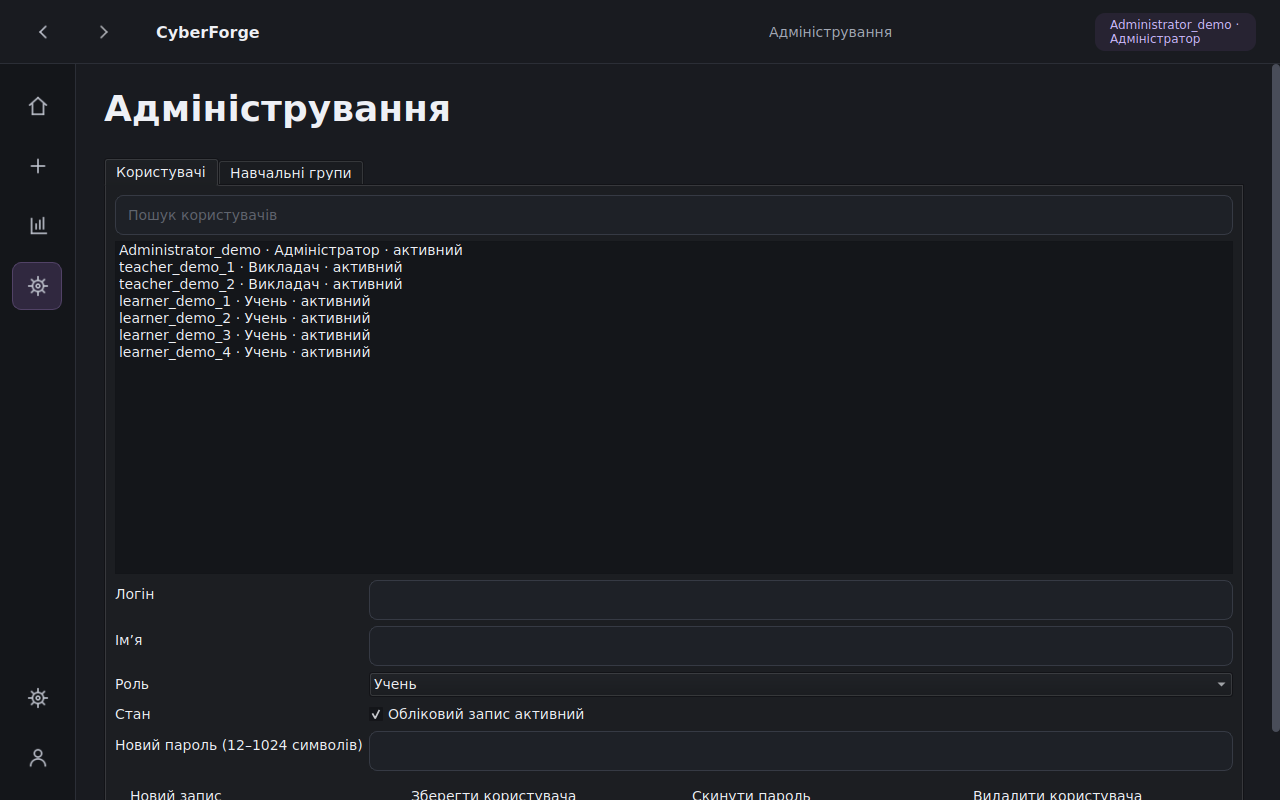
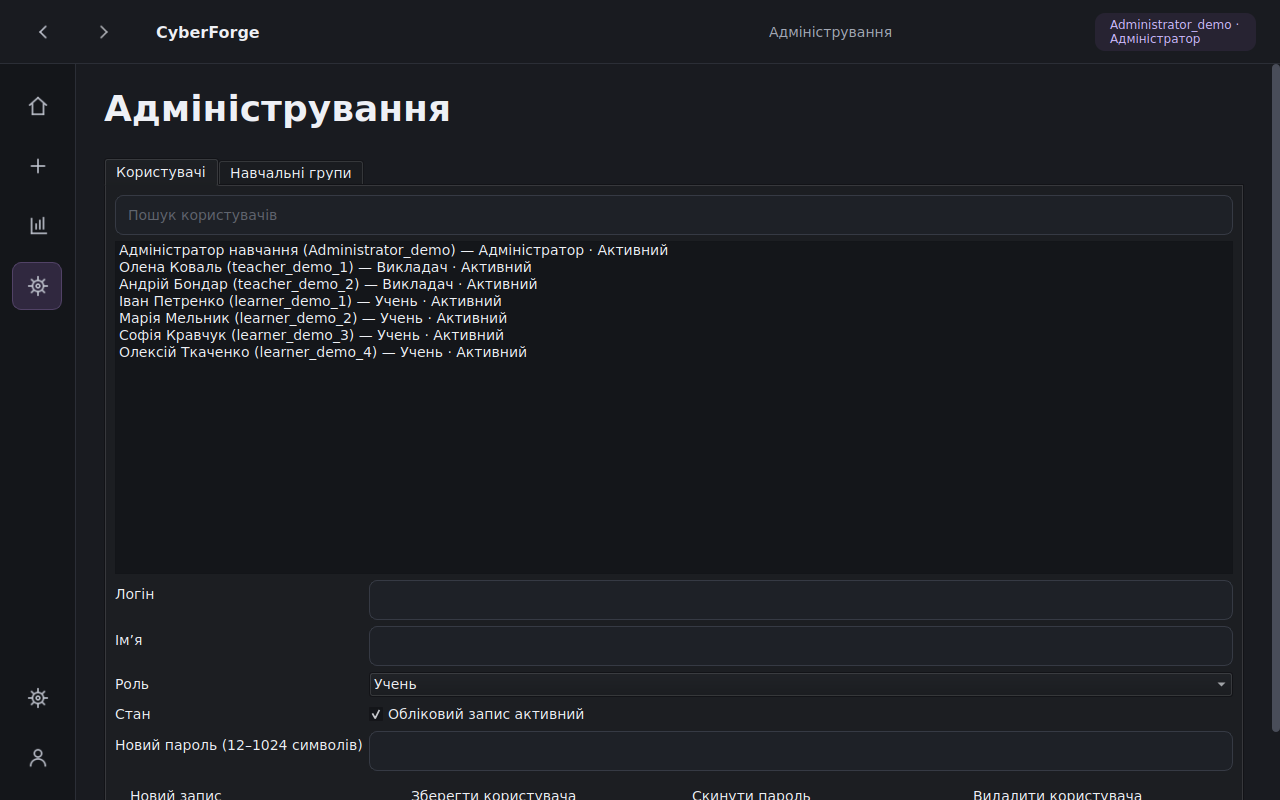
fix: restore standard role popup and consistent membership focus

Changed region(s): [[0.0938, 0.2812, 0.5312, 0.4688]]

diff --git a/tests/ui/test_accounts_ui.py b/tests/ui/test_accounts_ui.py
@@ -213,13 +213,23 @@ def test_popup_filters_unicode_and_default(qtbot, authenticated_window):
     page.new_user()
     assert page.role.currentData() == Role.LEARNER
     page.role.showPopup()
-    qtbot.wait(100)
+    qtbot.wait(250)
     index = page.role.model().index(page.role.findData(Role.INSTRUCTOR), 0)
-    qtbot.mouseClick(
-        page.role.view().viewport(),
-        Qt.MouseButton.LeftButton,
-        pos=page.role.view().visualRect(index).center(),
+    page.role.view().scrollTo(index)
+    qtbot.mouseMove(
+        page.role.view().viewport(), pos=page.role.view().visualRect(index).center()
     )
+    if QApplication.platformName() == "wayland":
+        # QtTest cannot supply a compositor pointer serial/warp for mouse grabs.
+        qtbot.keyClick(page.role.view(), Qt.Key.Key_Home)
+        qtbot.keyClick(page.role.view(), Qt.Key.Key_Down)
+        qtbot.keyClick(page.role.view(), Qt.Key.Key_Return)
+    else:
+        qtbot.mouseClick(
+            page.role.view().viewport(),
+            Qt.MouseButton.LeftButton,
+            pos=page.role.view().visualRect(index).center(),
+        )
     assert page.role.currentData() == Role.INSTRUCTOR
     assert not page.role.view().isVisible()
     page.role.setFocus()
@@ -286,3 +296,137 @@ def test_deletion_confirmation(qtbot, authenticated_window):
     QTimer.singleShot(20, lambda: respond(True))
     page.delete_user()
     assert len(window.accounts.list_users(window._token)) == 2
+
+
+@pytest.mark.parametrize("target", list(Role))
+def test_native_popup_mouse_and_keyboard(qtbot, authenticated_window, target):
+    from PySide6.QtWidgets import QApplication
+
+    if QApplication.platformName() == "wayland":
+        pytest.skip(
+            "QtTest mouse lacks Wayland input serial/pointer warp; "
+            "physical check required"
+        )
+    window, password = authenticated_window
+    login(qtbot, window, "admin", password)
+    window.navigate(View.ADMIN)
+    page = window.admin_page
+    before = window.accounts.list_users(window._token)
+    qtbot.mouseClick(page.role, Qt.MouseButton.LeftButton)
+    qtbot.waitUntil(lambda: page.role.view().isVisible())
+    index = page.role.model().index(page.role.findData(target), 0)
+    page.role.view().scrollTo(index)
+    qtbot.wait(250)
+    qtbot.mouseMove(
+        page.role.view().viewport(), pos=page.role.view().visualRect(index).center()
+    )
+    qtbot.mouseClick(
+        page.role.view().viewport(),
+        Qt.MouseButton.LeftButton,
+        pos=page.role.view().visualRect(index).center(),
+    )
+    qtbot.waitUntil(lambda: not page.role.view().window().isVisible())
+    qtbot.wait(150)  # Detect a reopened popup on the next event-loop turn.
+    assert not page.role.view().window().isVisible()
+    assert page.role.currentData() == target
+    page.role.setFocus()
+    qtbot.keyClick(page.role, Qt.Key.Key_F4)
+    qtbot.waitUntil(lambda: page.role.view().isVisible())
+    qtbot.keyClick(page.role.view(), Qt.Key.Key_Home)
+    qtbot.keyClick(page.role.view(), Qt.Key.Key_Return)
+    qtbot.waitUntil(lambda: not page.role.view().window().isVisible())
+    assert page.role.currentData() == Role.ADMINISTRATOR
+    qtbot.keyClick(page.role, Qt.Key.Key_F4)
+    qtbot.keyClick(page.role.view(), Qt.Key.Key_Escape)
+    qtbot.waitUntil(lambda: not page.role.view().window().isVisible())
+    assert window.accounts.list_users(window._token) == before
+
+
+@pytest.mark.parametrize("member_list", ["instructors", "learners"])
+def test_both_membership_lists_focus_and_checks(
+    qtbot, authenticated_window, member_list
+):
+    from PySide6.QtCore import QPoint
+    from PySide6.QtWidgets import QTabWidget
+
+    window, password = authenticated_window
+    login(qtbot, window, "admin", password)
+    window.navigate(View.ADMIN)
+    page = window.admin_page
+    page.findChild(QTabWidget).setCurrentIndex(1)
+    widget = getattr(page, member_list)
+    item = widget.item(0)
+    item.setCheckState(Qt.CheckState.Checked)
+    widget.setCurrentRow(0)
+    widget.setFocus()
+    qtbot.waitUntil(widget.hasFocus)
+    assert widget.selectedItems()
+    page.group_name.setFocus()
+    qtbot.waitUntil(lambda: not widget.hasFocus())
+    assert not widget.selectedItems()
+    assert item.checkState() == Qt.CheckState.Checked
+    widget.setCurrentRow(0)
+    for candidate, field in page.filters:
+        if candidate is widget:
+            field.setText("відсутній")
+            field.clear()
+    assert item.checkState() == Qt.CheckState.Checked
+    qtbot.mouseClick(
+        widget.viewport(),
+        Qt.MouseButton.LeftButton,
+        pos=widget.viewport().rect().bottomRight() - QPoint(10, 10),
+    )
+    assert not widget.selectedItems()
+    assert item.checkState() == Qt.CheckState.Checked
+
+
+def test_display_name_search_save_and_long_names(qtbot, authenticated_window):
+    window, password = authenticated_window
+    login(qtbot, window, "admin", password)
+    window.navigate(View.ADMIN)
+    page = window.admin_page
+    page.users.setCurrentRow(2)
+    user = page.users.currentItem().data(Qt.ItemDataRole.UserRole)
+    name = "Іван Петренко " * 10
+    page.display_name.setText(name.strip())
+    page.save_user()
+    item = next(
+        page.users.item(i)
+        for i in range(page.users.count())
+        if page.users.item(i).data(Qt.ItemDataRole.UserRole).id == user.id
+    )
+    assert name.strip() in item.text()
+    assert f"({user.username}) — Учень · Активний" in item.text()
+    assert item.toolTip() == item.text()
+    for widget, field in page.filters:
+        if widget is page.users:
+            for text in ("петренко", user.username):
+                field.setText(text)
+                assert not item.isHidden()
+            field.clear()
+    window.resize(860, 620)
+    qtbot.wait(20)
+    assert page.width() <= window.containers[View.ADMIN].viewport().width()
+    assert not page.users.horizontalScrollBar().isVisible()
+
+
+@pytest.mark.parametrize("target", list(Role))
+def test_native_popup_keyboard_dismissal(qtbot, authenticated_window, target):
+    window, password = authenticated_window
+    login(qtbot, window, "admin", password)
+    window.navigate(View.ADMIN)
+    combo = window.admin_page.role
+    before = window.accounts.list_users(window._token)
+    combo.setFocus()
+    qtbot.keyClick(combo, Qt.Key.Key_F4)
+    qtbot.waitUntil(lambda: combo.view().isVisible())
+    qtbot.keyClick(combo.view(), Qt.Key.Key_Home)
+    for _ in range(combo.findData(target)):
+        qtbot.keyClick(combo.view(), Qt.Key.Key_Down)
+    qtbot.keyClick(combo.view(), Qt.Key.Key_Return)
+    qtbot.waitUntil(lambda: not combo.view().window().isVisible())
+    assert combo.currentData() == target
+    qtbot.keyClick(combo, Qt.Key.Key_F4)
+    qtbot.keyClick(combo.view(), Qt.Key.Key_Escape)
+    qtbot.waitUntil(lambda: not combo.view().window().isVisible())
+    assert window.accounts.list_users(window._token) == before

diff --git a/src/cyberforge/ui/admin_page.py b/src/cyberforge/ui/admin_page.py
@@ -24,23 +24,16 @@ from cyberforge.ui.pages import label
 
 
 class EditableList(QListWidget):
+    def focusOutEvent(self, event) -> None:
+        super().focusOutEvent(event)
+        # Keep the current edit identity and check states, only drop row highlight.
+        self.clearSelection()
+
     def mousePressEvent(self, event) -> None:
         if not self.indexAt(event.position().toPoint()).isValid():
             self.setCurrentRow(-1)
             self.clearSelection()
         super().mousePressEvent(event)
-
-
-class RoleCombo(QComboBox):
-    def __init__(self) -> None:
-        super().__init__()
-        # Use Qt's widget popup consistently rather than a native menu popup.
-        self.setStyleSheet("QComboBox { combobox-popup: 0; }")
-        self.view().clicked.connect(self._choose)
-
-    def _choose(self, index) -> None:
-        self.setCurrentIndex(index.row())
-        self.hidePopup()
 
 
 class AdminPage(QWidget):
@@ -70,12 +63,14 @@ class AdminPage(QWidget):
         tabs.addTab(groups_page, "Навчальні групи")
         users_layout = QVBoxLayout(users_page)
         self.users = EditableList()
+        self.users.setTextElideMode(Qt.TextElideMode.ElideRight)
+        self.users.setHorizontalScrollBarPolicy(Qt.ScrollBarPolicy.ScrollBarAlwaysOff)
         self.users.currentItemChanged.connect(self.select_user)
         self._filter(users_layout, self.users, "Пошук користувачів")
         users_layout.addWidget(self.users)
         form = QFormLayout()
         self.username, self.display_name = QLineEdit(), QLineEdit()
-        self.role = RoleCombo()
+        self.role = QComboBox()
         for role in Role:
             self.role.addItem(role.label, role)
         self.active = QCheckBox("Обліковий запис активний")
@@ -119,7 +114,7 @@ class AdminPage(QWidget):
         group_form.addRow("Опис", self.description)
         groups_layout.addLayout(group_form)
         row = QHBoxLayout()
-        self.instructors, self.learners = EditableList(), QListWidget()
+        self.instructors, self.learners = EditableList(), EditableList()
         for title, widget in (("Викладачі", self.instructors), ("Учні", self.learners)):
             column = QVBoxLayout()
             column.addWidget(label(title))
@@ -172,9 +167,10 @@ class AdminPage(QWidget):
         users = self.accounts.list_users(token)
         for user in users:
             item = QListWidgetItem(
-                f"{user.username} · {user.role.label} · "
-                f"{'активний' if user.active else 'вимкнений'}"
+                f"{user.display_name} ({user.username}) — {user.role.label} · "
+                f"{'Активний' if user.active else 'Вимкнений'}"
             )
+            item.setToolTip(item.text())
             item.setData(Qt.ItemDataRole.UserRole, user)
             self.users.addItem(item)
             if user.active and user.role in (Role.INSTRUCTOR, Role.LEARNER):

diff --git a/tools/keyboard_probe.py b/tools/keyboard_probe.py
@@ -1,0 +1,23 @@
+"""Manual baseline Qt input comparison. No database, credentials, or key logging."""
+
+import sys
+
+from PySide6.QtWidgets import QApplication, QFormLayout, QLabel, QLineEdit, QWidget
+
+
+def main() -> int:
+    app = QApplication(sys.argv)
+    window = QWidget()
+    window.setWindowTitle("CyberForge — перевірка фізичного вводу Qt")
+    layout = QFormLayout(window)
+    layout.addRow(QLabel(f"Qt backend: {app.platformName()}"))
+    layout.addRow(QLabel("Введіть український текст фізично. Паролі не вводьте."))
+    for title in ("Ім’я", "Назва групи", "Опис"):
+        layout.addRow(title, QLineEdit())
+    window.resize(700, 240)
+    window.show()
+    return app.exec()
+
+
+if __name__ == "__main__":
+    raise SystemExit(main())

diff --git a/docs/diagnostics/wslg-keyboard.md b/docs/diagnostics/wslg-keyboard.md
@@ -51,3 +51,46 @@ Wayland без доказів не пропонується.
 Також popup ролей вибирається одним лівим кліком і одразу оновлює currentData
 без запису БД. Це перевіряє Qt/UI, але синтетичні події не є фізичним вводом
 через RDP/XKB. Підтвердження фізичної клавіатури власником залишається потрібним.
+
+## Повторна фізична перевірка власника — проблема не закрита
+
+Свіжі записи Weston повторюють помилку 0x20422 (зокрема 21:08:00 за часом
+журналу). Отже, попередня рекомендація не була підтвердженим виправленням.
+Unicode key/input-method події доводять лише приймання символів Qt-полями.
+Додаткову проблему на шляху фізичних подій Qt/Wayland ще не виключено.
+
+Додано `tools/keyboard_probe.py`: чисті QLineEdit без доменних сервісів,
+підключення БД, validators і запису клавіш. Порядок ручного порівняння:
+
+1. У WSL: `QT_QPA_PLATFORM=wayland uv run python tools/keyboard_probe.py`.
+   Поруч запустити CyberForge, вибрати ту саму Windows-розкладку й фізично
+   набрати `Україна Київ ї є ґ` у всіх трьох полях обох вікон.
+2. Перевірити свіжий фрагмент `/mnt/wslg/weston.log` на `KeyboardLayout`,
+   `Failed to switch` і `Resetting default keymap`. Не збирати повні логи
+   або введені паролі. Якщо обидва вікна не працюють і є mapping error,
+   це підтверджує збій нижче бізнес-логіки CyberForge.
+3. За бажанням власника перевірити звичайну Ukrainian 00000422 замість
+   Enhanced, як описано вище. Успіх підтверджувати лише реально набраним
+   текстом і відсутністю нового mapping error. Системні налаштування агент
+   не змінює; наявну розкладку не видаляти.
+4. Для native Windows скопіювати джерела в окремий робочий каталог Windows,
+   установити Python 3.12/uv за звичайною процедурою README, виконати
+   `uv sync --locked`, потім `uv run python tools/keyboard_probe.py` у PowerShell.
+   Не задавати QT_QPA_PLATFORM=wayland. Вікно має показати backend `windows`.
+   Наявну demo-БД або credentials не переносити й не ініціалізувати заново.
+5. Якщо native probe працює, а WSLg probe — ні, наступна діагностична дія —
+   звернення до WSLg з версіями та фрагментом mapping error або погоджене
+   власником оновлення WSLg. Якщо probe працює, а CyberForge — ні, потрібен
+   окремий захват фізичних подій у несекретних полях застосунку.
+
+Windows interop перевірено лише read-only: `py -0p` знаходить Python 3.13;
+`py -3.13 -m pip show PySide6` повідомляє, що пакет відсутній. Windows uv
+не знайдено. Це не готове цільове Python 3.12/PySide6 середовище: native
+Windows запуск і фізична клавіатура не перевірені. Нічого не встановлювалося.
+Надійний фізичний workaround поки не підтверджено; дефект лишається відкритим.
+
+Окреме обмеження GUI-автоматизації: QtTest mouse не дає Wayland compositor
+input serial/warp, і Qt повідомляє `Failed to create grabbing popup`.
+Три тести повної mouse-послідовності popup запускаються offscreen/CI, але
+явно skip у Wayland. Keyboard popup acceptance/dismissal тестуються у WSLg.
+Це обмеження тесту не є доказом ані успіху, ані збою фізичного кліку власника.

diff --git a/docs/adr/0002-identity-groups.md b/docs/adr/0002-identity-groups.md
@@ -112,3 +112,24 @@ SRS v3.0 залишається незмінним. Phase 2 — REVIEW.
   скидає вибір. Палітра й архітектура оболонки збережені.
 - Причина WSLg keyboard та межі фізичної перевірки —
   [діагностика](../diagnostics/wslg-keyboard.md).
+
+## Наступне owner review: popup, обидва списки, display names
+
+Попередній RoleCombo та clicked→setCurrentIndex→hidePopup видалено разом
+із stylesheet override combobox-popup. Використовується стандартний
+QComboBox і його життєвий цикл; Save залишається єдиним записом БД.
+Початковий тест showPopup не покривав відкриття мишею й відкладене повторне
+відображення. Нові тести перевіряють усі ролі, наступні event-loop turn,
+F4/Enter/Escape. Для WSLg synthetic mouse grab існує явно задокументований skip.
+Офіційний контракт Qt: https://doc.qt.io/qtforpython-6/PySide6/QtWidgets/QComboBox.html
+
+Причина асиметрії: instructors був EditableList, learners — QListWidget.
+Обидва тепер EditableList. focusOutEvent знімає selection, але не current
+identity і не check states; empty click скидає current/selection. Фільтри
+не перебудовують items. Кожен список має окремий regression test.
+
+Users entry містить display_name, username, role, active status; пошук
+використовує повний текст. Довгі назви elide-right, повний текст у tooltip,
+горизонтальне прокручування вимкнено. Зміна імені оновлює entry після Save.
+Фізичне українське введення лишається невирішеним environment issue до
+порівняння probe/native Windows; не змінювати налаштування автоматично.
